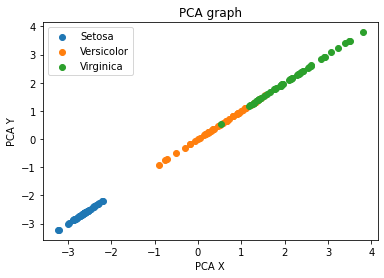
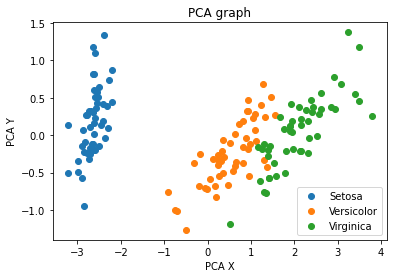
update

diff --git a/_episodes/04-regression.md b/_episodes/04-regression.md
@@ -18,7 +18,7 @@ keypoints:
 
 # Linear regression
 
-We now possess a basic linear model for a given dataset. It would be valuable to assess the accuracy of this model. One way to achieve this is by computing the predicted y-values for each x-value in our original dataset and comparing them with the actual y-values. We can aggregate these individual discrepancies into a single comprehensive error metric by calculating the least squares. This involves squaring each difference, summing them all, dividing the sum by the total number of observations, and then taking the square root of the result. By squaring and subsequently taking the square root, we prevent negative errors from offsetting positive ones, thus providing us with an overall error metric to gauge the accuracy of our model.
+We will now create a basic linear model for a given dataset. It would be valuable to assess the accuracy of this model. One way to achieve this is by computing the predicted y-values for each x-value in our original dataset and comparing them with the actual y-values. We can aggregate these individual discrepancies into a single comprehensive error metric by calculating the least squares. This involves squaring each difference, summing them all, dividing the sum by the total number of observations, and then taking the square root of the result. By squaring and subsequently taking the square root, we prevent negative errors from offsetting positive ones, thus providing us with an overall error metric to gauge the accuracy of our model.
 
 
 ## Preprocess the dataset

diff --git a/_episodes/03-dimensionality-reduction.md b/_episodes/03-dimensionality-reduction.md
@@ -75,7 +75,7 @@ Now lets visualise our reduced features:
 import matplotlib.pyplot as plt
 
 iris_df["pca_x"] = pca[:, 0]
-iris_df["pca_y"] = pca[:, 0]
+iris_df["pca_y"] = pca[:, 1]
 
 sp = iris_df.drop_duplicates(subset=['variety'])
 sp = list(sp['variety'])
@@ -126,7 +126,7 @@ print(ts.shape)
 import matplotlib.pyplot as plt
 
 iris_df["tsne_x"] = ts[:, 0]
-iris_df["tsne_y"] = ts[:, 0]
+iris_df["tsne_y"] = ts[:, 1]
 
 sp = iris_df.drop_duplicates(subset=['variety'])
 sp = list(sp['variety'])
